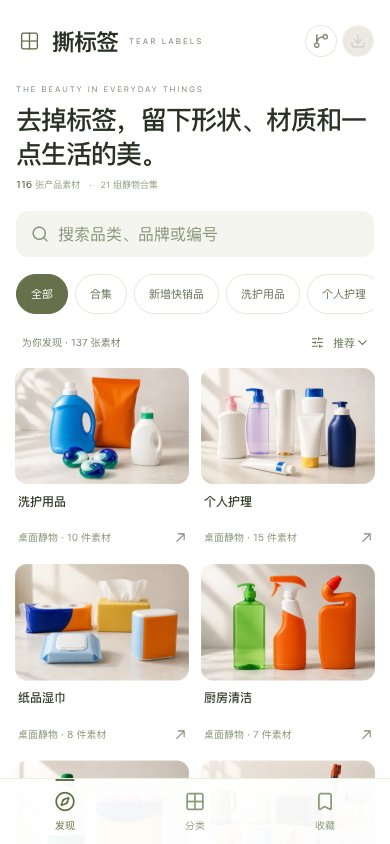
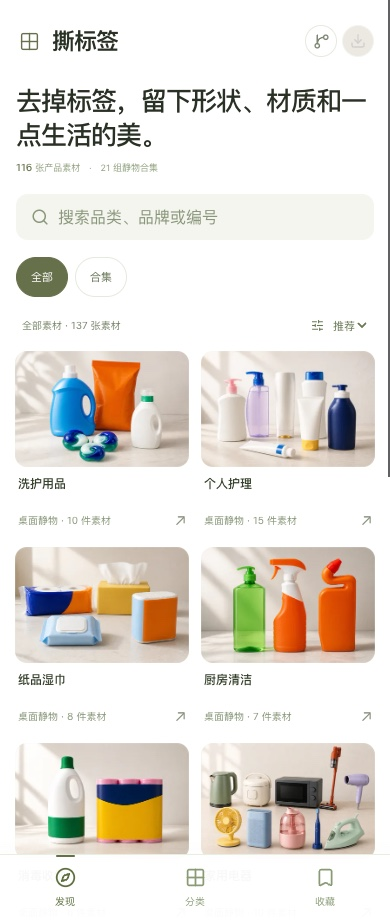
Release Tear Labels 1.1.5 with simpler gallery browsing

diff --git a/app/page.tsx b/app/page.tsx
@@ -292,7 +292,6 @@ const products: Product[] = [
   { id: '116', name: 'Britannia Good Day 饼干', group: '饮料食品', reference: '立式饼干袋', brand: 'Good Day', image: '/assets/fmcg-tear-labels/britannia-good-day-cookies.png', accent: '#ae917b', treatment: '完整去标 · 低饱和表面' },
 ].map((product) => (newFmcgProductIds.has(product.id) ? { ...product, collectionGroup: '新增快销品' } : product));
 
-const groups = ['全部', '合集', '新增快销品', '洗护用品', '个人护理', '纸品湿巾', '厨房清洁', '消毒收纳', '家用电器', '饮料食品', '宝洁公司', '雀巢公司', '百事公司', '联合利华', '茅台', '伊利', '品牌补充'];
 
 const categorySummaries: CategorySummary[] = [
   { group: '洗护用品', stillLife: '/assets/category-still-life/01-laundry-care-still-life.png', description: '衣物清洁与护理', accent: '#168bd1' },
@@ -410,12 +409,7 @@ export default function Home() {
     }
   });
 
-  const navGroups = [
-    '全部',
-    '合集',
-    ...groups.filter((group) => group !== '全部' && group !== '合集'),
-    '我的收藏',
-  ];
+  const galleryTabs = ['全部', '合集'];
   const isCollectionView = activeGroup === '合集';
   const isFavoritesView = activeGroup === '我的收藏';
   const query = searchTerm.trim().toLowerCase();
@@ -921,7 +915,6 @@ export default function Home() {
               <Grid2X2 size={21} strokeWidth={1.6} />
             </span>
             <span className="brand-title">撕标签</span>
-            <span className="brand-en">TEAR LABELS</span>
           </button>
           <div className="header-tools">
             <a
@@ -951,7 +944,6 @@ export default function Home() {
         </div>
         <div className="wander-intro">
           <div>
-            <p className="wander-eyebrow">THE BEAUTY IN EVERYDAY THINGS</p>
             <h1>
               {directoryOpen
                 ? '从喜欢的分类开始。'
@@ -961,24 +953,15 @@ export default function Home() {
                     ? '一起看，换一种灵感。'
                     : '去掉标签，留下形状、材质和一点生活的美。'}
             </h1>
-            {(directoryOpen || isFavoritesView || isCollectionView) && (
-            <p className="wander-description">
-              {directoryOpen
-                ? '按品类和专题，找到合适的素材。'
-                : isFavoritesView
-                  ? '你的私人素材夹，下次灵感从这里开始。'
-                  : '去掉标签，留下形状、材质和一点生活的美。'}
-            </p>
-            )}
           </div>
           <p className="wander-inventory">
             <strong>{products.length}</strong> 张产品素材 <span>·</span>{' '}
             {collectionSummaries.length} 组静物合集
           </p>
         </div>
-        <label className="search-capsule">
+        <div className="search-capsule">
           <Search className="search-icon" size={18} aria-hidden="true" />
-          <span className="sr-only">搜索日用品素材</span>
+          <label className="sr-only" htmlFor="search-input">搜索日用品素材</label>
           <input
             id="search-input"
             type="search"
@@ -999,35 +982,29 @@ export default function Home() {
             >
               <X size={15} />
             </button>
-          ) : (
-            <span className="search-caption" aria-hidden="true">
-              找到一份灵感
-            </span>
-          )}
-        </label>
+          ) : null}
+        </div>
         <div className="series-tabs-wrap">
-          <nav className="series-tabs" aria-label="素材分类">
-            {navGroups
-              .filter((group) => group !== '我的收藏')
-              .map((group) => (
-                <button
-                  className={
-                    'series-tab' +
-                    (!directoryOpen && activeGroup === group ? ' active' : '')
-                  }
-                  type="button"
-                  key={group}
-                  aria-pressed={!directoryOpen && activeGroup === group}
-                  onClick={() => {
-                    setActiveGroup(group);
-                    setDirectoryOpen(false);
-                    setSearchTerm('');
-                    setModalOpen(false);
-                  }}
-                >
-                  <span className="tab-text">{group}</span>
-                </button>
-              ))}
+          <nav className="series-tabs" aria-label="浏览范围">
+            {galleryTabs.map((group) => (
+              <button
+                className={
+                  'series-tab' +
+                  (!directoryOpen && activeGroup === group ? ' active' : '')
+                }
+                type="button"
+                key={group}
+                aria-pressed={!directoryOpen && activeGroup === group}
+                onClick={() => {
+                  setActiveGroup(group);
+                  setDirectoryOpen(false);
+                  setSearchTerm('');
+                  setModalOpen(false);
+                }}
+              >
+                <span className="tab-text">{group}</span>
+              </button>
+            ))}
           </nav>
         </div>
       </header>
@@ -1042,7 +1019,7 @@ export default function Home() {
                 : isFavoritesView
                   ? '我的收藏'
                   : activeGroup === '全部'
-                    ? '为你发现'
+                    ? '全部素材'
                     : activeGroup}
             <span className="status-count">
               {' '}
@@ -1068,19 +1045,8 @@ export default function Home() {
                 <option>名称</option>
               </select>
             </label>
-          ) : (
-            <span className="collection-caption">看见日常的另一面</span>
-          )}
+          ) : null}
         </div>
-
-        {query ? (
-          <div className="search-result-line">
-            <span>正在搜索 “{searchTerm}”</span>
-            <button type="button" onClick={clearSearch}>
-              清除
-            </button>
-          </div>
-        ) : null}
 
         {directoryOpen ? (
           <div className="category-directory">
@@ -1294,9 +1260,6 @@ export default function Home() {
             />
           </>
         ) : null}
-        {!directoryOpen && visibleCount > 0 && !hasMoreFeedItems ? (
-          <p className="feed-end">这一页的日常，已经看完了。</p>
-        ) : null}
         {!directoryOpen && visibleCount === 0 ? (
           <div className="empty-state">
             <span className="empty-symbol" aria-hidden="true">
@@ -1319,7 +1282,7 @@ export default function Home() {
 
       <footer className="wander-footer">
         <span>
-          撕标签 <small>v1.1.4</small>
+          撕标签 <small>v1.1.5</small>
         </span>
         <span>无品牌素材 · 原图 PNG</span>
         <a

diff --git a/README.en.md b/README.en.md
@@ -12,12 +12,12 @@
   <a href="https://holynova.github.io/daily-necessities-library/">Mirror</a>
 </p>
 
-Tear Labels is a library of unbranded daily-necessity images: 116 label-free product PNGs plus 21 desktop still-life sets. Logos, trademarks, and label text are all removed — only the product's shape, material, and color remain, on a uniform white product-photography background, ready to use. The Wander interface browses them with olive category tags, a two-column waterfall, and bottom navigation, with collections first on the homepage.
+Tear Labels is a library of unbranded daily-necessity images: 116 label-free product PNGs plus 21 desktop still-life sets. Logos, trademarks, and label text are all removed — only the product's shape, material, and color remain, on a uniform white product-photography background, ready to use. The homepage shows still-life collections first. Switch between all images and collections above the gallery, or open Categories from the bottom navigation.
 
 ## Screenshots
 
 <p align="center">
-  <img src="./assets/readme/screenshot-mobile.jpg" width="300" alt="Wander mobile homepage: 116 product images and 21 still-life sets, category tags and a two-column waterfall">
+  <img src="./assets/readme/screenshot-mobile.jpg" width="300" alt="Wander mobile homepage: 116 product images and 21 still-life sets, gallery shortcuts and a two-column masonry grid">
   <img src="./assets/readme/still-life-sample.jpg" width="400" alt="Sample still-life set: laundry care group — a blue detergent bottle, an orange detergent bag, a small white bottle and laundry pods">
 </p>
 

diff --git a/README.md b/README.md
@@ -12,12 +12,12 @@
   <a href="https://holynova.github.io/daily-necessities-library/">备用镜像</a>
 </p>
 
-撕标签是一个去品牌日用品素材库：116 张去标签产品 PNG 与 21 组桌面静物合集。包装上的 Logo、商标与标签文字全部去掉，只留下产品的形状、材质与颜色，统一纯白商品摄影底，拿来就能用。Wander 界面以橄榄绿分类标签、双列瀑布流与底部导航浏览，首页合集优先。
+撕标签是一个去品牌日用品素材库：116 张去标签产品 PNG 与 21 组桌面静物合集。包装上的 Logo、商标与标签文字全部去掉，只留下产品的形状、材质与颜色，统一纯白商品摄影底，拿来就能用。首页优先展示桌面静物合集。顶部可切换「全部」与「合集」，具体分类从底部「分类」进入。
 
 ## 截图
 
 <p align="center">
-  <img src="./assets/readme/screenshot-mobile.jpg" width="300" alt="Wander 移动端首页：116 张产品素材与 21 组静物合集，分类标签与双列瀑布流">
+  <img src="./assets/readme/screenshot-mobile.jpg" width="300" alt="Wander 移动端首页：116 张产品素材与 21 组静物合集，全部与合集入口、双列瀑布流">
   <img src="./assets/readme/still-life-sample.jpg" width="400" alt="静物合集示例：洗护用品组，蓝色洗衣液瓶、橙色洗衣粉袋、白色小瓶与洗衣凝珠">
 </p>
 
